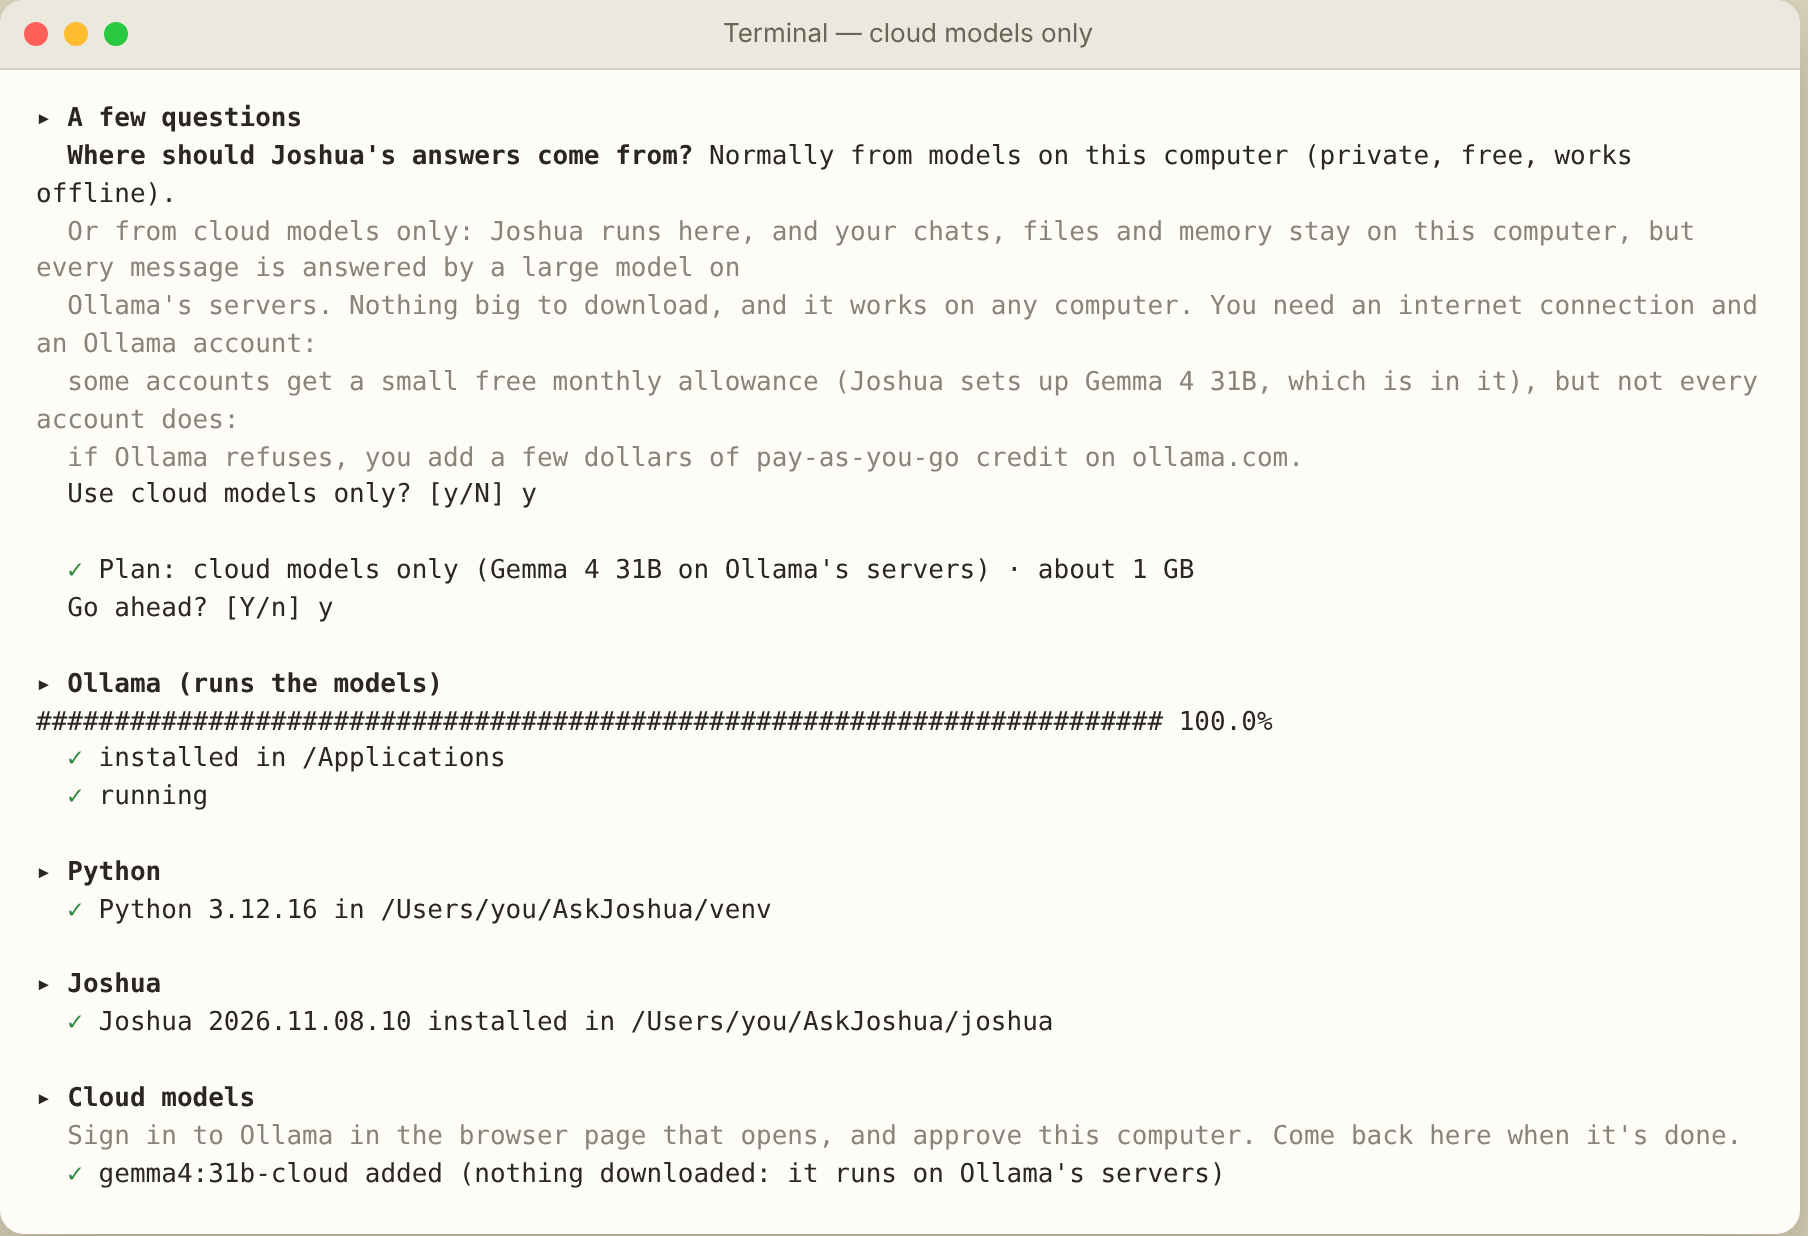
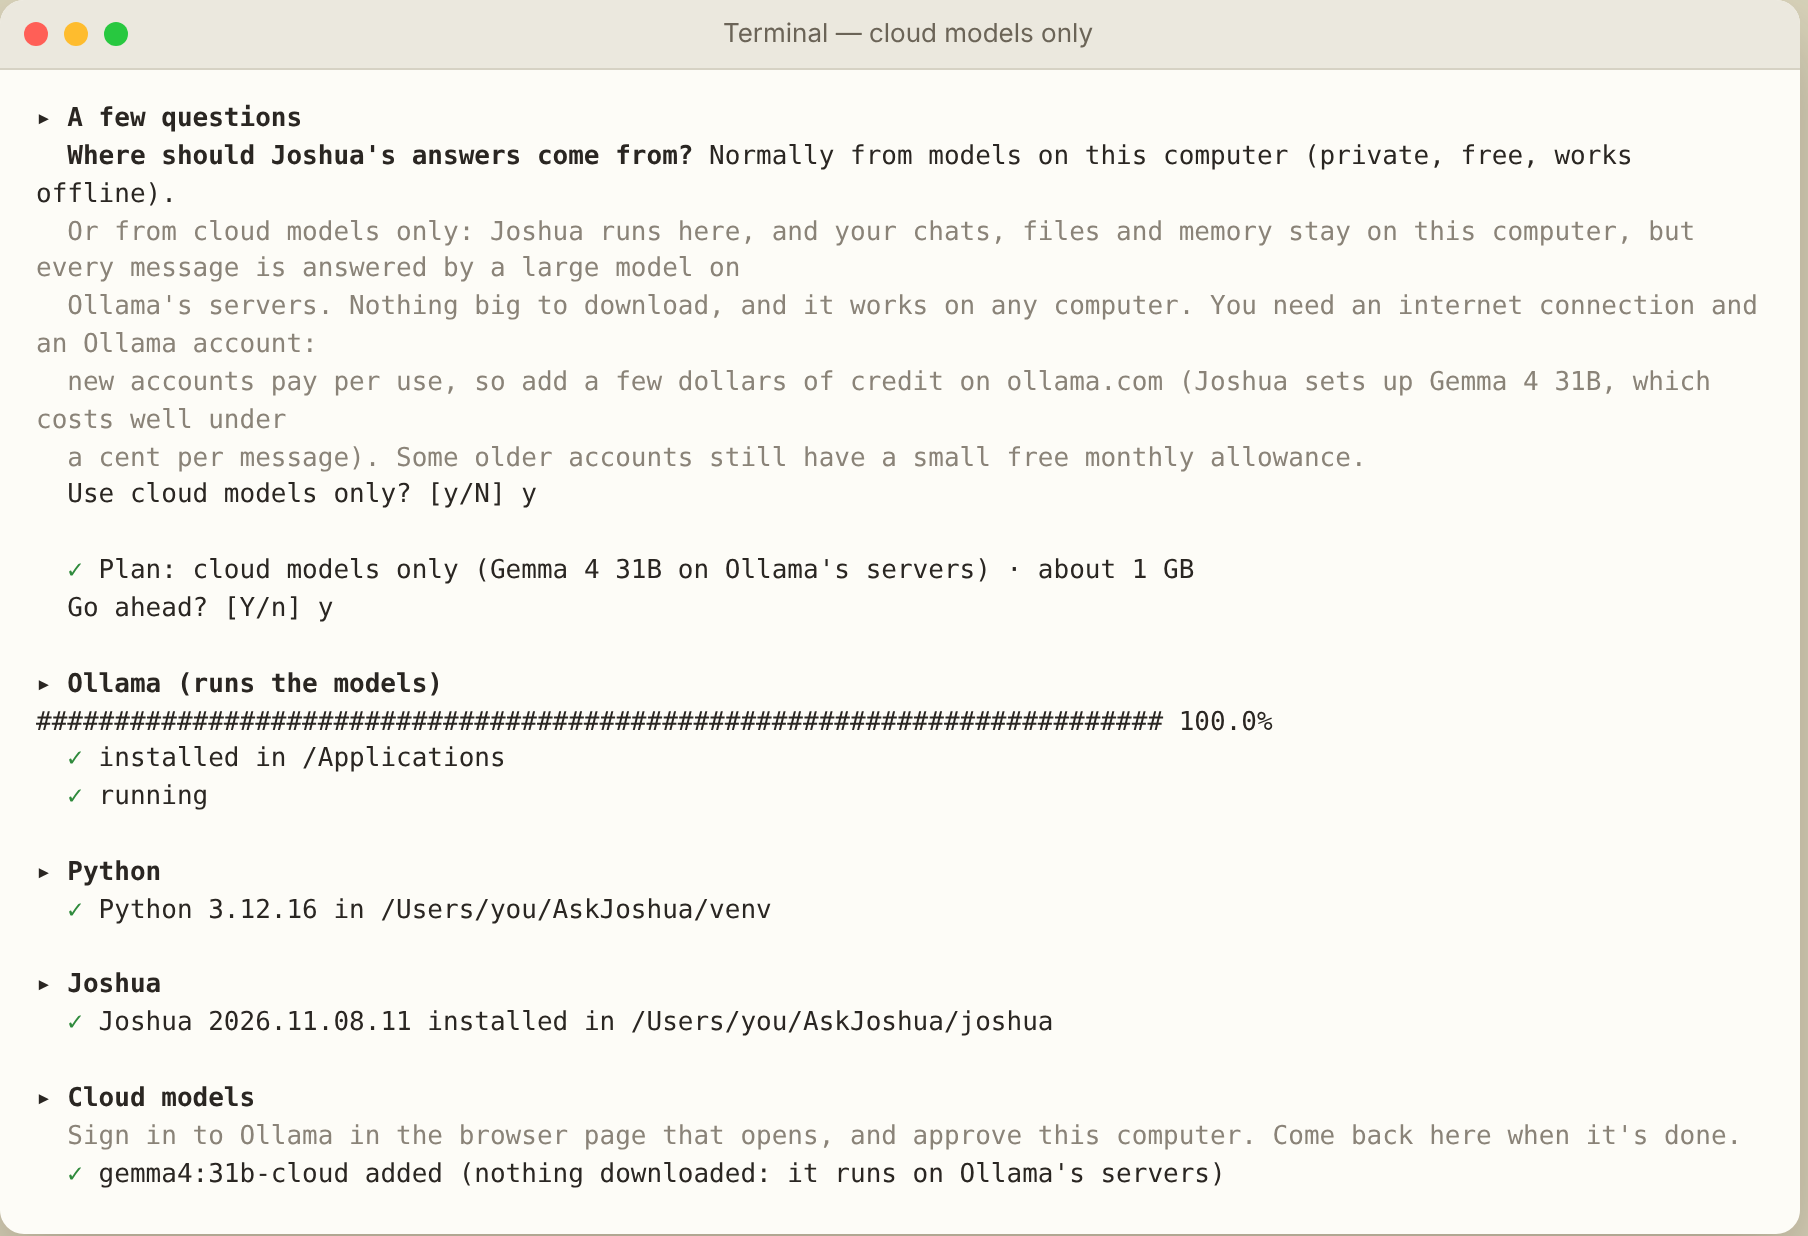
Model menu: '＋ Add a model…' opens the cloud and local model panels; cloud pricing as it is now
Ollama's current pricing has no free tier for new accounts (pay as you go from $0);
older accounts may still have the legacy free allowance. Wording updated everywhere.

Claude-Session: https://claude.ai/code/session_01QgNUGikZc3YxfbDmzS1PiV

diff --git a/site/index.html b/site/index.html
@@ -239,12 +239,12 @@ footer { border-top: 1px dashed var(--line); padding-top: 22px; display: flex; j
     <div class="col stack">
       <h3>Using a cloud model</h3>
       <ol class="howto">
-        <li><span><strong>Connect.</strong> Say yes to cloud models when you install, or later open <em>☁ Cloud models</em> in Joshua and press <em>Connect</em>. A page on ollama.com opens: create a free account or sign in, and approve your computer.</span></li>
-        <li><span><strong>Start free, pay if you need more.</strong> Some Ollama accounts get a small free monthly allowance on a few models, including Gemma 4 31B, which also sees images and which Joshua sets up for you. Not every account gets it: a new account may show only pay-as-you-go credit at $0, and then Ollama refuses cloud requests until you add some. Bigger models need pay-as-you-go credit (no monthly fee) or a plan such as Pro ($20 a month with $60 of use included).</span></li>
-        <li><span><strong>Add a model.</strong> In <em>☁ Cloud models</em>, pick one from the list (👁 means it can also see images) and press <em>Add to the model menu</em>. Nothing is downloaded.</span></li>
+        <li><span><strong>Connect.</strong> Say yes to cloud models when you install, or later open <em>☁ Cloud models</em> in Joshua and press <em>Connect</em>. A page on ollama.com opens: create an account (Continue with Google works) or sign in, and approve your computer.</span></li>
+        <li><span><strong>Pay per use, a little at a time.</strong> New Ollama accounts pay per use: you add credit on ollama.com, with no subscription. Gemma 4 31B, which also sees images and which Joshua sets up for you, is one of the cheapest: well under a cent per message, so a few dollars last a long time. Some older accounts still have a small free monthly allowance. Bigger models cost more per message; if you use them a lot, a plan such as Pro ($20 a month with $60 of use included) works out cheaper.</span></li>
+        <li><span><strong>Add a model.</strong> Choose <em>＋ Add a model…</em> at the bottom of the model menu under the prompt (or open <em>☁ Cloud models</em>), pick one from the list (👁 means it can also see images) and press <em>Add to the model menu</em>. Nothing is downloaded.</span></li>
         <li><span><strong>Choose it per chat.</strong> Pick the ☁ model under the prompt. Joshua starts every new chat on your local model, so the cloud is always a choice you make.</span></li>
       </ol>
-      <p class="fine">Plans and prices as of November 2026; Ollama may change which models are free. Local models stay free and unlimited.</p>
+      <p class="fine">Plans and prices as of November 2026, from ollama.com/pricing; Ollama may change them. Local models stay free and unlimited.</p>
     </div>
   </section>
 
@@ -269,7 +269,7 @@ footer { border-top: 1px dashed var(--line); padding-top: 22px; display: flex; j
       <h2>One line, a few questions</h2>
       <p>The installer looks at your computer first: chip, graphics card, memory, free disk, and estimates how fast each model would run on it. It asks whether you want deep thinking, images and fine-tuning, or cloud models only, shows the plan and the space it needs, and waits for your yes.</p>
       <p>Then it installs <a href="https://ollama.com" rel="noopener">Ollama</a>, the engine that runs the models, a private copy of Python, Joshua and the models you chose, and offers to start Joshua when you log in, so it opens at once and scheduled tasks can run. On a Mac, Joshua is an app of its own in the Applications folder, with its own window and Dock icon; on Linux it opens in its own window from the applications menu. Everything else stays in one folder, <code>~/AskJoshua</code>, with an <code>uninstall.sh</code> that removes it.</p>
-      <p class="limits"><strong>Before you start.</strong> Installing takes about 20 minutes, most of it downloading, depending on your connection and the options you choose. On some Macs, macOS also offers to install Apple's “Command Line Developer Tools” along the way: let it finish. Its first time estimate (sometimes many hours) is wrong; it usually takes 10–20 minutes. Cloud models need an Ollama account: when the installer opens the sign-in page, <b>Continue with Google</b> with your Gmail address is enough. Not every account gets Ollama's free allowance; if it refuses, add a few dollars of credit on ollama.com, or use a local model. Local models need no account.</p>
+      <p class="limits"><strong>Before you start.</strong> Installing takes about 20 minutes, most of it downloading, depending on your connection and the options you choose. On some Macs, macOS also offers to install Apple's “Command Line Developer Tools” along the way: let it finish. Its first time estimate (sometimes many hours) is wrong; it usually takes 10–20 minutes. Cloud models need an Ollama account: when the installer opens the sign-in page, <b>Continue with Google</b> with your Gmail address is enough. New Ollama accounts pay per use: add a few dollars of credit on ollama.com before using cloud models. Local models are always free. Local models need no account.</p>
       <p class="fine">Prefer to read before you run? <a href="https://ask.joshua.earth/install.sh">Open install.sh</a>: it is plain, commented shell. All of Joshua's code is <a href="https://github.com/fabiodeponte/askjoshua">on GitHub</a>, under the AGPL licence.</p>
     </div>
     <div class="stack">
@@ -281,7 +281,7 @@ footer { border-top: 1px dashed var(--line); padding-top: 22px; display: flex; j
             <tr><td>8 GB</td><td>qwen3-vl 4B · about 3 GB</td><td>Deep thinking. Images are not offered: they need 16 GB. On a slow chip the 4B is suggested even with 16 GB.</td></tr>
             <tr><td>16–24 GB</td><td>qwen3-vl 8B · about 6 GB</td><td>Deep thinking, images (FLUX.2 klein), fine-tuning.</td></tr>
             <tr><td>32 GB+</td><td>qwen3-vl 30B · about 20 GB</td><td>Everything, with a larger and smarter model if you want it.</td></tr>
-            <tr><td>Any computer</td><td>Cloud models only · about 1 GB</td><td>For computers too small or too old for local models (Intel Macs, under 8 GB of memory, little free disk), or if you prefer. Answers come from Ollama's servers; chats, files and memory stay on your computer. Needs an internet connection and an Ollama account; the free allowance isn't guaranteed, so you may need a few dollars of credit.</td></tr>
+            <tr><td>Any computer</td><td>Cloud models only · about 1 GB</td><td>For computers too small or too old for local models (Intel Macs, under 8 GB of memory, little free disk), or if you prefer. Answers come from Ollama's servers; chats, files and memory stay on your computer. Needs an internet connection and an Ollama account with a few dollars of pay-as-you-go credit.</td></tr>
             <tr><td>Linux</td><td>chosen by the graphics card: 4B under 7 GB, 8B from 7 GB, 30B from 22 GB</td><td>Images from 12 GB, fine-tuning from 8 GB, on NVIDIA cards. Without a card, the 4B runs on the processor, slowly.</td></tr>
           </tbody>
         </table>
@@ -332,7 +332,7 @@ footer { border-top: 1px dashed var(--line); padding-top: 22px; display: flex; j
 
   <footer>
     <span>Ask Joshua · from the people behind <a href="https://yattaphone.org">Yattaphone</a>, the phone you build yourself.</span>
-    <span>Version 2026.11.08.10 · Own your hardware. Own your data. Own your intelligence.</span>
+    <span>Version 2026.11.08.11 · Own your hardware. Own your data. Own your intelligence.</span>
   </footer>
 </div>
 

diff --git a/site/api.html b/site/api.html
@@ -360,7 +360,7 @@ print(reply.choices[0].message.content)</pre></div>
 
   <footer>
     <span>Ask Joshua · <a href="./">back to the home page</a></span>
-    <span>Joshua 2026.11.08.10 · Own your hardware. Own your data. Own your intelligence.</span>
+    <span>Joshua 2026.11.08.11 · Own your hardware. Own your data. Own your intelligence.</span>
   </footer>
 </div>
 

diff --git a/site/manifesto.html b/site/manifesto.html
@@ -241,6 +241,6 @@ h1.page em { font-style: normal; color: var(--rust) }
 
   <footer>
     <span>Ask Joshua · <a href="./">back to the home page</a></span>
-    <span>Joshua 2026.11.08.10 · Own your hardware. Own your data. Own your intelligence.</span>
+    <span>Joshua 2026.11.08.11 · Own your hardware. Own your data. Own your intelligence.</span>
   </footer>
 </div>

diff --git a/joshua/web.py b/joshua/web.py
@@ -51,7 +51,10 @@ def is_cloud(name):
 PAIR = "auto:qwen3-vl"  # one menu entry: the deep-thinking switch picks qwen3-vl or its faster instruct version
 
 
-def models():
+ADD = "+add"  # last entry of the model menu: opens the panels where you add cloud or local models
+
+
+def models(add=False):
     try:
         listed = ollama.list().models
     except Exception:
@@ -62,7 +65,7 @@ def models():
     choices = [(label(n), n) for n in names if not (FAST in names and n in (FAST, MODEL, MODEL + ":latest"))]
     if FAST in names and (MODEL in names or MODEL + ":latest" in names):
         choices.insert(0, (agent.CONFIG.get("label", "qwen3-vl"), PAIR))
-    return choices or [(FAST, FAST)]
+    return (choices or [(FAST, FAST)]) + ([("＋ Add a model…", ADD)] if add else [])
 
 
 def default_model():
@@ -74,14 +77,14 @@ CLOUD_BADGE = "<div class='cloudbadge'>☁ Cloud model: messages go to Ollama's 
 
 
 def badge(choice):
-    return CLOUD_BADGE if choice and is_cloud(resolve(choice, False)) else ""
+    return CLOUD_BADGE if choice and choice != ADD and is_cloud(resolve(choice, False)) else ""
 
 
 CLOUD_HELP = """Bigger models running on Ollama's servers, for when this computer is too small or slow.
 **What goes to the cloud:** for every message, the conversation so far, including the text of files and web pages Joshua reads, and your photos if you send them.
 **What stays here:** your chats, files, memory notes and trained models are stored only on this computer. Memory notes are sent only if you allow it in 🧠 Memory.
 Ollama says it never logs or trains on cloud prompts. That is a promise you are trusting, not something this computer can check.
-**Cost:** some Ollama accounts get a small free monthly allowance on a few models (marked "free plan"), but not every account does: if Ollama refuses, add pay-as-you-go credit or a plan on ollama.com, or use a local model."""
+**Cost:** new Ollama accounts pay per use: add a few dollars of credit on ollama.com (Gemma 4 31B costs well under a cent per message). Some older accounts still have a small free monthly allowance on a few models (marked "free plan" for those accounts). Local models are always free."""
 
 
 def ollama_bin():
@@ -96,8 +99,8 @@ def cloud_catalog():
         info = {n: requests.post("https://ollama.com/api/show", json={"model": n}, timeout=15).json().get("capabilities", []) for n in names}
     except Exception:
         return gr.Dropdown(choices=[]), "<div class='cloudstat'>Couldn't reach ollama.com to list the cloud models.</div>"
-    free = {"gemma4:31b"}  # in Ollama's free plan (November 2026); Ollama names others in its error messages
-    choices = [(("👁 " if "vision" in c else "") + n + (" · free plan" if n in free else ""), n) for n, c in info.items() if "tools" in c]
+    free = {"gemma4:31b"}  # free for older accounts on Ollama's legacy free plan, and among the cheapest per message (November 2026)
+    choices = [(("👁 " if "vision" in c else "") + n + (" · cheapest" if n in free else ""), n) for n, c in info.items() if "tools" in c]
     choices.sort(key=lambda c: c[1] not in free)
     return gr.Dropdown(choices=choices, value=None), ""
 
@@ -200,7 +203,7 @@ def local_download(tag):
         return
     CAPS.pop(tag, None)
     ok = "tools" in caps(tag)
-    yield gr.Dropdown(choices=models(), value=tag if ok else gr.skip()), f"<div class='cloudstat'>{html.escape(tag)} is ready" + (" and selected in the model menu." if ok else ", but it can't use Joshua's tools, so it isn't in the menu.") + "</div>"
+    yield gr.Dropdown(choices=models(True), value=tag if ok else gr.skip()), f"<div class='cloudstat'>{html.escape(tag)} is ready" + (" and selected in the model menu." if ok else ", but it can't use Joshua's tools, so it isn't in the menu.") + "</div>"
 
 
 def local_update():
@@ -270,7 +273,7 @@ def cloud_add_model(name):
     if r.returncode:
         return gr.skip(), f"<div class='cloudstat'>Couldn't add {html.escape(tag)}: {html.escape((r.stderr or r.stdout)[-200:])}</div>"
     CAPS.pop(tag, None)
-    return gr.Dropdown(choices=models(), value=tag), f"<div class='cloudstat'>Added ☁ {html.escape(name)}: it's selected in the model menu. Nothing was downloaded: it runs on Ollama's servers.</div>"
+    return gr.Dropdown(choices=models(True), value=tag), f"<div class='cloudstat'>Added ☁ {html.escape(name)}: it's selected in the model menu. Nothing was downloaded: it runs on Ollama's servers.</div>"
 
 
 def share_memory_setting(value=None):
@@ -702,8 +705,8 @@ def worker(job, cid, conv, model, thinking, goal, rounds, net, timeout, swarm=0,
                 text = (f"Ollama refused this model for your account. **{free[1]}** is in the free plan: add it from **☁ Cloud models** and pick it in the menu."
                         " Or add credit (pay as you go) or a plan on [ollama.com](https://ollama.com/settings). Local models keep working for free.\n\nOllama's message: " + text)
             else:  # no free usage on this account (not every account gets it), or it's used up
-                text = ("Ollama refused this request: your Ollama account has no cloud usage available. Not every account gets the free monthly allowance, and it may be used up."
-                        " Check your account on [ollama.com/settings](https://ollama.com/settings): you can add a few dollars of credit (pay as you go)."
+                text = ("Ollama refused this request: your Ollama account has no cloud credit. New Ollama accounts pay per use (older ones may have a small free allowance, which may be used up)."
+                        " Add a few dollars of credit on [ollama.com/settings](https://ollama.com/settings): Gemma 4 31B costs well under a cent per message."
                         " Or switch to a local model in the menu below: those are free and run on this computer.\n\nOllama's message: " + text)
         elif is_cloud(model) and any(w in low for w in ("429", "quota", "usage limit", "rate limit", "too many requests")):
             text = "Ollama's cloud refused this request: you've reached your plan's usage limit or too many requests are running. Wait a moment, check your usage on [ollama.com](https://ollama.com/settings), or switch to a local model."
@@ -733,6 +736,8 @@ def send(message, cid, model, thinking, goal, rounds, net, timeout, swarm, agent
     if busy(cid):
         gr.Warning("This chat is still working. Wait for it to finish, press Stop, or start a new chat.")
         return gr.skip(), *SKIP
+    if model == ADD:  # the menu is still on "＋ Add a model…"
+        model = default_model()
     choice, model = model, resolve(model, thinking)
     cloud = is_cloud(model)
     if cloud and offline:
@@ -1629,7 +1634,7 @@ with gr.Blocks(title="Joshua", fill_width=True) as demo:
             with gr.Row(elem_id="modelrow"):
                 working = gr.HTML("", elem_id="working")
                 cloudbadge = gr.HTML("", elem_id="cloudbadge")
-                model = gr.Dropdown(choices=models(), value=default_model(), show_label=False, container=False, elem_id="model", scale=0, min_width=200)
+                model = gr.Dropdown(choices=models(True), value=default_model(), show_label=False, container=False, elem_id="model", scale=0, min_width=200)
         with gr.Column(scale=1, min_width=250, elem_classes="side", elem_id="rightcol") as rightcol:
             thinking = gr.Checkbox(False, label="💭 Deep thinking", elem_classes="opt", info="Slower, better on hard questions")
             goal = gr.Checkbox(False, label="🎯 Goal mode", elem_classes="opt", info="Give a goal; it keeps working until done")
@@ -1644,7 +1649,7 @@ with gr.Blocks(title="Joshua", fill_width=True) as demo:
                 mem_text = gr.Textbox(lines=8, max_lines=20, show_label=False, placeholder="Nothing remembered yet. Joshua adds notes as you chat, or you can type them here, one per line.")
                 mem_btn = gr.Button("Save notes", size="sm")
                 cloudmem = gr.Checkbox(share_memory_setting(), label="Share notes with cloud models", info="Off: cloud models never see your memory notes (Joshua still learns, on this computer)")
-            with gr.Accordion("☁ Cloud models", open=False) as cloud_box:
+            with gr.Accordion("☁ Cloud models", open=False, elem_id="cloudbox") as cloud_box:
                 gr.Markdown(CLOUD_HELP, elem_id="cloudhelp")
                 cloud_status = gr.HTML("")
                 connect = gr.Button("Connect this computer to Ollama", size="sm")
@@ -1671,6 +1676,21 @@ with gr.Blocks(title="Joshua", fill_width=True) as demo:
 
     box.submit(send, [box, cid, model, thinking, goal, rounds, net, timeout, swarm, agents, mem, offline, cloudmem], [chatbot, box, cid, convs, files], concurrency_limit=None)
     model.change(badge, model, cloudbadge)
+
+    # "＋ Add a model…" in the menu: open the two panels on the right, fill their lists, then put the menu back on the model you had
+    last_model, adding = gr.State(default_model()), gr.State(False)
+
+    def pick_model(choice, last):
+        if choice != ADD:
+            return gr.skip(), gr.skip(), choice, False
+        gr.Info("Pick a model in ☁ Cloud models or ⬇ Local models, on the right.")
+        return gr.Accordion(open=True), gr.Accordion(open=True), last, True
+
+    scroll_js = "(c, l) => { if (c === '+add') setTimeout(() => document.getElementById('cloudbox')?.scrollIntoView({behavior: 'smooth', block: 'start'}), 300); return [c, l]; }"
+    (model.change(pick_model, [model, last_model], [cloud_box, local_box, last_model, adding], js=scroll_js)
+     .then(lambda a: cloud_catalog() if a else (gr.skip(), gr.skip()), adding, [cloud_pick, cloud_status])
+     .then(lambda a: local_catalog() if a else (gr.skip(), gr.skip()), adding, [local_pick, local_status])
+     .then(lambda a, last: (gr.Dropdown(value=last), False) if a else (gr.skip(), False), [adding, last_model], [model, adding]))
     cloudmem.change(share_memory_setting, cloudmem)
     cloud_box.expand(cloud_catalog, outputs=[cloud_pick, cloud_status])
     local_box.expand(local_catalog, outputs=[local_pick, local_status])
@@ -1704,9 +1724,9 @@ with gr.Blocks(title="Joshua", fill_width=True) as demo:
     files.delete(delete_file, cid, files)
     gr.Timer(1).tick(poll, cid, [chatbot, convs, files, working], show_progress="hidden", concurrency_limit=None)
     dele.click(delete_chat, convs, [chatbot, cid, convs, files, project], js="(c) => (c && confirm('Delete this chat and its files? They will be moved to the Trash.')) ? c : null")
-    demo.load(lambda: (gr.Radio(choices=conv_choices()), gr.Dropdown(choices=models(), value=default_model())), outputs=[convs, model])
+    demo.load(lambda: (gr.Radio(choices=conv_choices()), gr.Dropdown(choices=models(True), value=default_model())), outputs=[convs, model])
     tune.click(lambda: (gr.Column(visible=True), gr.Column(visible=False), gr.Column(visible=False), gr.Column(visible=False), "<div class='ftres'>CHECKING YOUR COMPUTER…</div>"), outputs=[tune_panel, chatcol, rightcol, sched_panel, tune_res]).then(tune_ui.res_html, outputs=tune_res, show_progress="hidden")
-    tune_back.click(lambda: (gr.Column(visible=False), gr.Column(visible=True), gr.Column(visible=True), gr.Dropdown(choices=models())), outputs=[tune_panel, chatcol, rightcol, model])
+    tune_back.click(lambda: (gr.Column(visible=False), gr.Column(visible=True), gr.Column(visible=True), gr.Dropdown(choices=models(True))), outputs=[tune_panel, chatcol, rightcol, model])
     screen.change(None, screen, None, js="(v) => { document.body.dataset.screen = v; try { localStorage.setItem('joshua-screen2', v) } catch (e) {} }")
     demo.load(None, None, screen, js="() => { let v = 'novel'; try { v = localStorage.getItem('joshua-screen2') || 'novel' } catch (e) {} document.body.dataset.screen = v; return v }")
 
